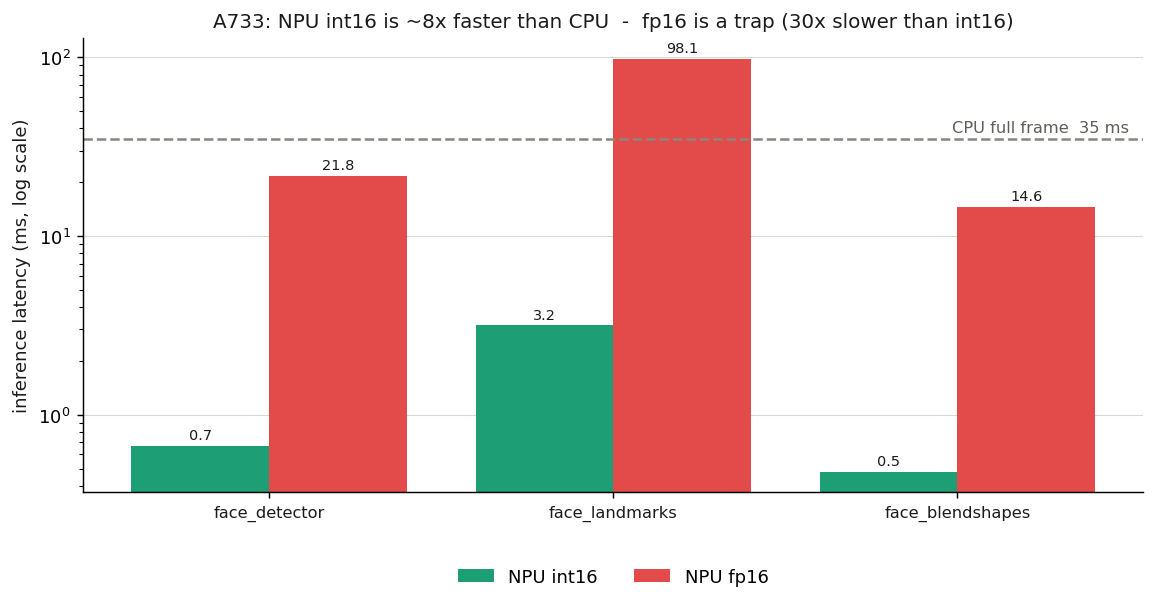
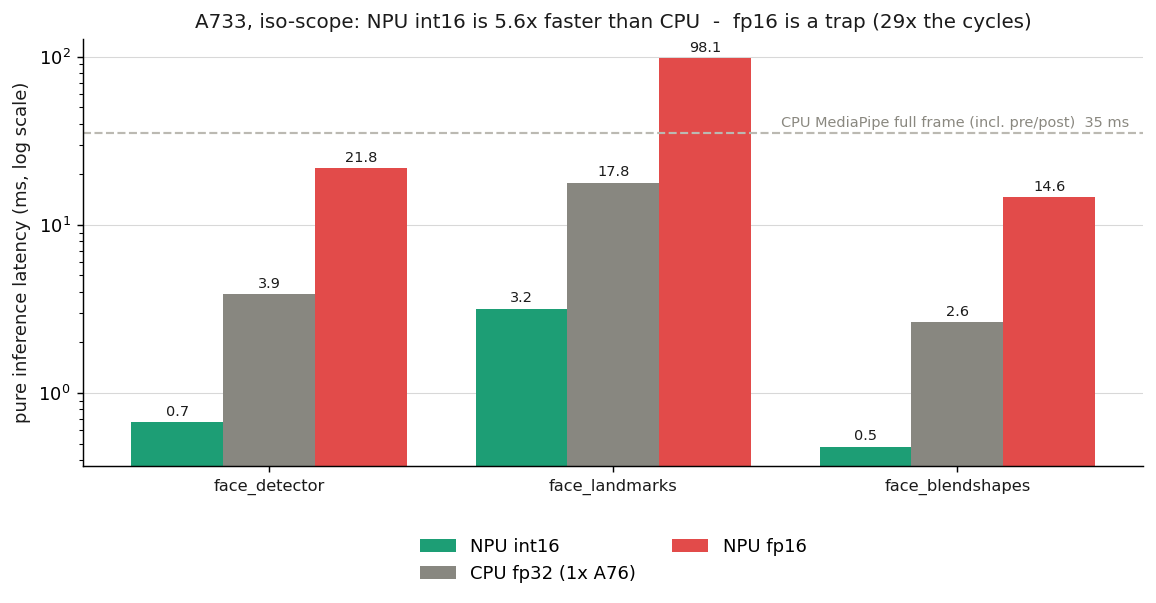
benchmark: fair iso-scope CPU baseline + fp16 root cause via cycle counters
- CPU measured at the same scope as the NPU (raw per-model TFLite fp32,
  pinned A76): 24.2ms 1T / 16.9ms 2T vs NPU int16 4.31ms -> 5.6x / 3.9x
  at matched output accuracy. The ~8x figure vs the full 35ms MediaPipe
  frame is kept, stated as a separate scope.
- fp16 mystery solved with hardware cycle counters: 98.4M vs 3.4M cycles
  (29x) at the same ~1GHz effective clock -> the NANO-DI MAC arrays are
  integer-only; fp16 falls back to a slow programmable path. Hardware
  mapping limit, not a config issue.
- NPU I/O overhead measured: ~0.25ms/inference (~7% of compute);
  create/prepare (~6ms) is one-time.
- Chart now shows NPU int16 vs CPU fp32 vs NPU fp16 per model.

diff --git a/charts/make_charts.py b/charts/make_charts.py
@@ -68,15 +68,16 @@ def fidelity_chart() -> None:
 
 
 def latency_chart() -> None:
-    """Measured on the Radxa Cubie A7A (A733): NPU (int16 & fp16) vs CPU."""
+    """Measured on the Radxa Cubie A7A (A733): NPU (int16 & fp16) vs CPU, iso-scope."""
     data = json.loads((RESULTS / "latency.json").read_text())
     models = ["face_detector", "face_landmarks_detector", "face_blendshapes"]
     labels = ["face_detector", "face_landmarks", "face_blendshapes"]
     series = [
         ("NPU int16", "#1d9e75", [data["npu_int16"][m] for m in models]),
+        ("CPU fp32 (1x A76)", "#888780", [data["cpu_tflite_fp32_1thread"][m] for m in models]),
         ("NPU fp16", "#e24b4a", [data["npu_fp16"][m] for m in models]),
     ]
-    cpu = data["cpu_mediapipe_end_to_end_ms"]
+    cpu_e2e = data["cpu_mediapipe_end_to_end_ms"]
 
     fig, ax = plt.subplots(figsize=(9, 4.8))
     n = len(series)
@@ -86,16 +87,17 @@ def latency_chart() -> None:
         bars = ax.bar(xs, vals, width, label=name, color=colour)
         ax.bar_label(bars, fmt="%.1f", padding=2, fontsize=8, color=INK)
 
-    ax.axhline(cpu, color="#888780", linewidth=1.4, linestyle="--")
-    ax.text(len(models) - 0.5, cpu * 1.05, f"CPU full frame  {cpu:.0f} ms",
-            ha="right", va="bottom", color="#5f5e5a", fontsize=9)
+    ax.axhline(cpu_e2e, color="#bbb9b2", linewidth=1.2, linestyle="--")
+    ax.text(len(models) - 0.5, cpu_e2e * 1.05,
+            f"CPU MediaPipe full frame (incl. pre/post)  {cpu_e2e:.0f} ms",
+            ha="right", va="bottom", color="#8a8880", fontsize=8)
 
     ax.set_yscale("log")
     ax.set_xticks(range(len(models)))
     ax.set_xticklabels(labels, fontsize=9, color=INK)
-    ax.set_ylabel("inference latency (ms, log scale)", color=INK)
+    ax.set_ylabel("pure inference latency (ms, log scale)", color=INK)
     ax.set_title(
-        "A733: NPU int16 is ~8x faster than CPU  -  fp16 is a trap (30x slower than int16)",
+        "A733, iso-scope: NPU int16 is 5.6x faster than CPU  -  fp16 is a trap (29x the cycles)",
         color=INK, fontweight="medium", fontsize=11,
     )
     ax.legend(frameon=False, ncol=2, loc="upper center", bbox_to_anchor=(0.5, -0.13))

diff --git a/README.md b/README.md
@@ -7,7 +7,7 @@ compiled to run on the 3 TOPS NPU of the Allwinner A733 (Radxa Cubie A7A / A7Z
 
 ![status](https://img.shields.io/badge/conversion-validated-1d9e75)
 ![status](https://img.shields.io/badge/on--device-benchmarked-1d9e75)
-![speed](https://img.shields.io/badge/NPU_int16-8x_faster_than_CPU-1d9e75)
+![speed](https://img.shields.io/badge/NPU_int16-5.6x_CPU_(iso--scope)-1d9e75)
 ![license](https://img.shields.io/badge/license-Apache--2.0-blue)
 ![platform](https://img.shields.io/badge/SoC-Allwinner_A733-444)
 ![npu](https://img.shields.io/badge/NPU-VeriSilicon_VIP9000-444)
@@ -69,39 +69,44 @@ INT8 is rejected. FP16 and INT16 are both accurate enough — **but which one yo
 actually run should be decided by _speed on the real silicon_, not fidelity
 alone. That is where the on-device benchmark below is decisive.**
 
-### On-device latency: NPU vs CPU (measured)
+### On-device latency: NPU vs CPU (measured, iso-scope)
 
 ![latency](charts/latency_npu_vs_cpu.png)
 
-Measured with `vpm_run` (VIPLite v2.0, averaged over 100 loops) on the physical
-VIP9000, against MediaPipe's own end-to-end CPU frame time on the Cortex-A76:
+NPU measured with `vpm_run` (VIPLite v2.0, averaged over 100 loops) on the
+physical VIP9000. CPU measured at the **same scope** — raw per-model
+TFLite/XNNPACK fp32 inference (tflite-runtime, median of 100 loops, pinned to a
+Cortex-A76 with `taskset`). Pure inference vs pure inference, no pre/post:
 
-| model | NPU **int16** | NPU fp16 | (CPU MediaPipe, full frame) |
-|---|---|---|---|
-| face_detector | **0.67 ms** | 21.8 ms | — |
-| face_landmarks | **3.16 ms** | 98.1 ms | — |
-| face_blendshapes | **0.48 ms** | 14.6 ms | — |
-| **3-model total** | **≈ 4.3 ms** | ≈ 134 ms | ≈ 35 ms |
+| model | NPU **int16** | CPU fp32 (1× A76) | CPU fp32 (2× A76) | NPU fp16 |
+|---|---|---|---|---|
+| face_detector | **0.67 ms** | 3.86 ms | 2.39 ms | 21.8 ms |
+| face_landmarks | **3.16 ms** | 17.75 ms | 12.84 ms | 98.1 ms |
+| face_blendshapes | **0.48 ms** | 2.63 ms | 1.71 ms | 14.6 ms |
+| **3-model total** | **4.31 ms** | 24.2 ms | 16.9 ms | 134 ms |
 
-**The counter-intuitive result — the whole point of running it on real
+**The counter-intuitive results — the whole point of running it on real
 silicon:**
 
-- **INT16 is ~30× faster than FP16 on this NPU.** The VIP9000 **NANO-DI** has no
-  strong native FP16 compute path, so the "obvious" lossless FP16 route
-  (134 ms) is actually **slower than the CPU**. On a bigger VIP9000 with a full
-  FP16 pipe the story would differ — but on the chip that ships in these boards,
-  **INT16 is the correct precision.** This is not deducible from datasheets; it
-  had to be measured.
-- **INT16 is also near-lossless** (0.12 px landmark error, table above) — so the
-  30× speed-up costs no meaningful accuracy.
-- **INT16 NPU (~4.3 ms) is ~8× faster than the full CPU MediaPipe frame
-  (~35 ms)**, and it moves the work off the CPU entirely — the thermal and power
-  win that matters for a 24/7 art installation.
-- NPU figures are pure `vip_run_network` compute; CPU pre/post-processing
-  (letterbox, BlazeFace anchor-decode + NMS, crop, tensor packing) adds a few ms
-  on the A76, but the inference win dominates.
+- **NPU int16 is 5.6× faster than one A76 core, 3.9× faster than both** — at
+  matched output accuracy (int16 is 0.12 px off the fp32 reference). Against
+  MediaPipe's full CPU frame (~35 ms end-to-end including pre/post) the gap is
+  ~8×, a different scope stated separately on purpose. And the NPU offloads the
+  CPU entirely — the thermal/power win that matters for always-on installs.
+- **FP16 is a trap on this NPU, and the cycle counters prove why:** the fp16
+  graph executes **~29× more cycles** than int16 (98.4M vs 3.4M for the
+  landmarks model) at the same effective clock (~1 GHz). The NANO-DI's fast MAC
+  arrays are **integer-only**; fp16 convolutions fall back to a slow
+  programmable path. This is a hardware mapping limit — no export flag fixes it.
+  On a bigger VIP9000 with a real FP16 pipe the story would differ, but on this
+  chip **INT16 is the correct precision**, and it costs no meaningful accuracy.
+- **I/O overhead is small:** wall time vs pure-compute time differ by ~0.25 ms
+  on the largest model (256×256×3 input DMA + output read + dispatch), ~7% of
+  compute. Network create/prepare (~6 ms) happens once at startup. A chained
+  3-model runner should budget ~5-6 ms/frame NPU-side plus CPU pre/post
+  (letterbox, anchor decode + NMS, crop, tensor packing).
 
-Raw numbers and method: [benchmark/results/latency.json](benchmark/results/latency.json).
+Raw numbers, cycle counts and method: [benchmark/results/latency.json](benchmark/results/latency.json).
 
 ## How it works
 
@@ -181,7 +186,8 @@ matching `--optimize` target.
 ## Roadmap
 
 - [x] First on-device inference (`vpm_run` against VIPLite v2.0)
-- [x] Latency benchmark, NPU vs CPU — **int16 wins, ~8× vs CPU**
+- [x] Latency benchmark, NPU vs CPU (iso-scope) — **int16 wins, 5.6× vs CPU**
+- [x] FP16 root cause via cycle counters — integer-only MAC arrays, unfixable
 - [ ] Full C runner: anchor decoding, NMS, crop, the 3-model chain
 - [ ] Live demo (the [Watch Me](https://github.com/arnaudlvq/watchme) eye-contact clock that motivated this)
 - [ ] Python path via `tflite-vx-delegate` (exploratory, see RESEARCH.md)

diff --git a/benchmark/RUNTIME.md b/benchmark/RUNTIME.md
@@ -112,12 +112,15 @@ On the Radxa Cubie A7A (A733), VIPLite v2.0, averaged over 100 loops:
 | face_blendshapes | 0.48 ms | 14.60 ms |
 | **total** | **4.31 ms** | 134.45 ms |
 
-CPU reference (MediaPipe FaceLandmarker, full frame, Cortex-A76, XNNPACK):
-**≈ 35 ms**.
+CPU reference at the same scope (raw per-model TFLite/XNNPACK fp32, pinned to
+one Cortex-A76): **24.2 ms** total (17.75 ms for the landmarks model alone).
+MediaPipe's full CPU frame including pre/post: ≈ 35 ms.
 
-**INT16 is the deploy target** — ~30× faster than FP16 on the NANO-DI (which
-has no fast native FP16 path), ~8× faster than the CPU, and near-lossless
-(0.12 px landmark error). See the repo README for the full discussion.
+**INT16 is the deploy target** — ~30× faster than FP16 on the NANO-DI (cycle
+counters show fp16 executes ~29× more cycles: the MAC arrays are integer-only),
+5.6× faster than the CPU at iso-scope, and near-lossless (0.12 px landmark
+error). I/O overhead is ~0.25 ms per inference (wall vs compute time); network
+create/prepare (~6 ms) is one-time. See the repo README for the full discussion.
 
 ---
 